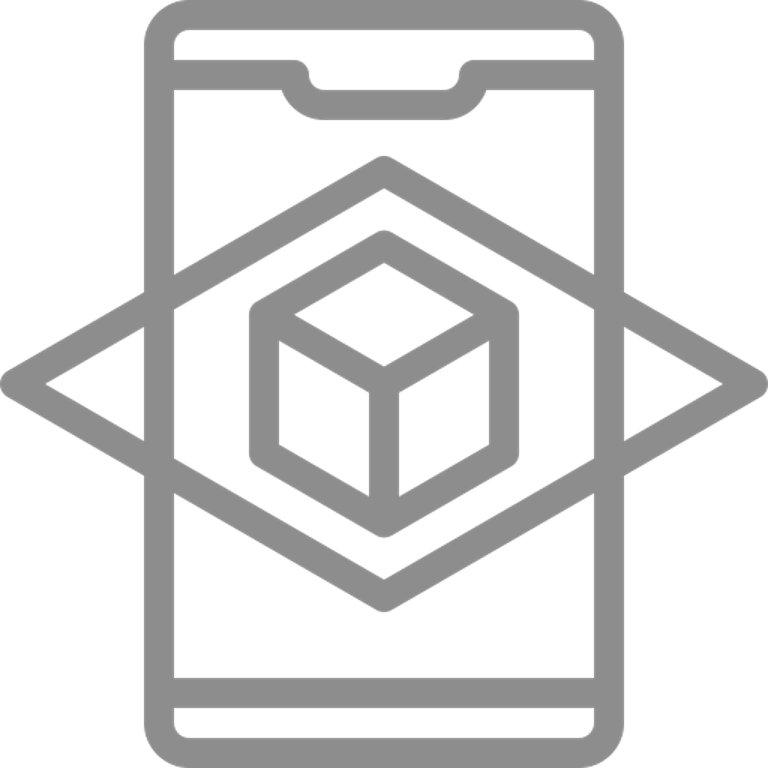
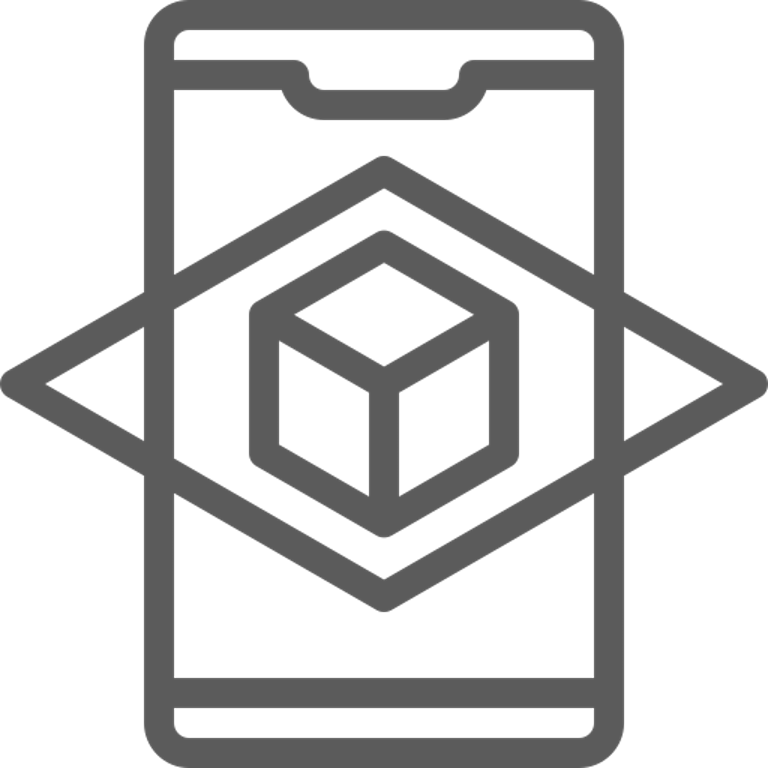
files

diff --git a/files/radwave_test/ar-figure.html b/files/radwave_test/ar-figure.html
@@ -27,7 +27,7 @@
         font-family: Roboto Regular, Helvetica Neue, sans-serif;
         font-size: 35pt;
         font-weight: bold;
-        color: #8D8C8D;
+        color: #5A5A5A;
         height: 200px;
         width: max(300px, 80%);
         border-radius: 18px;
